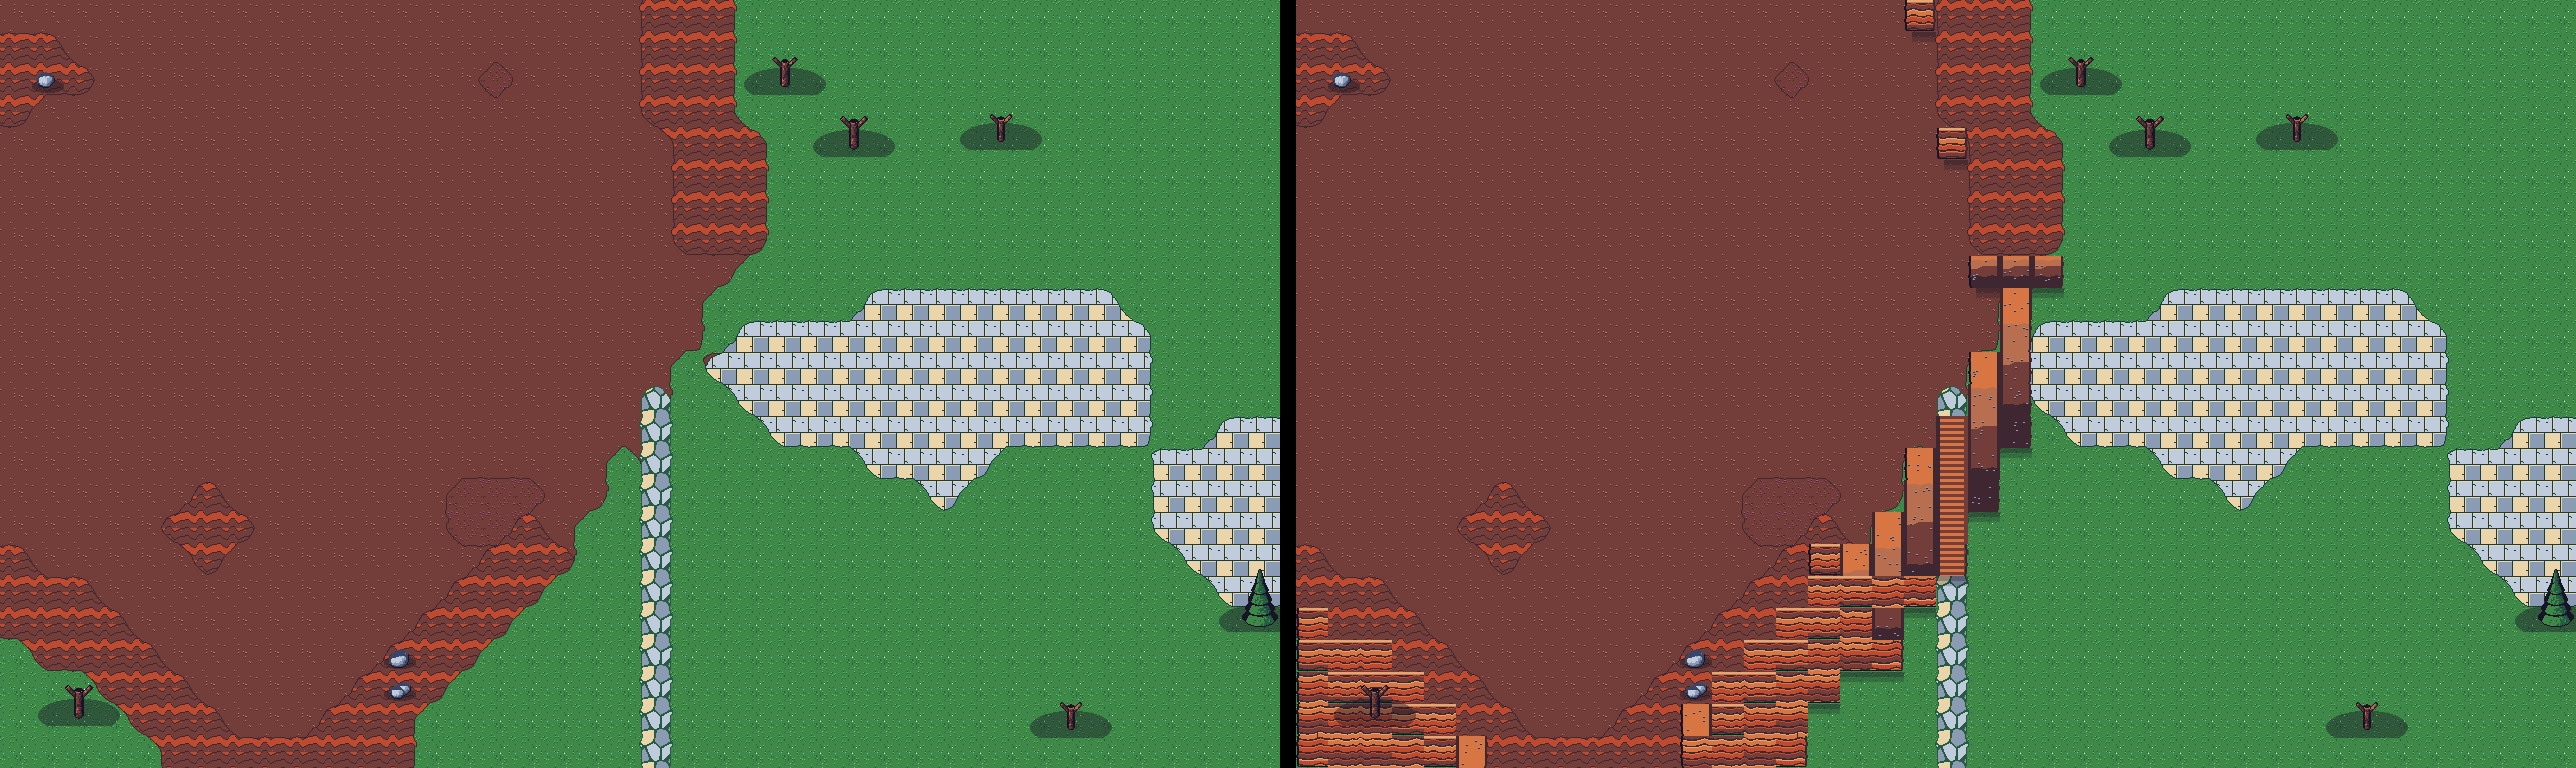
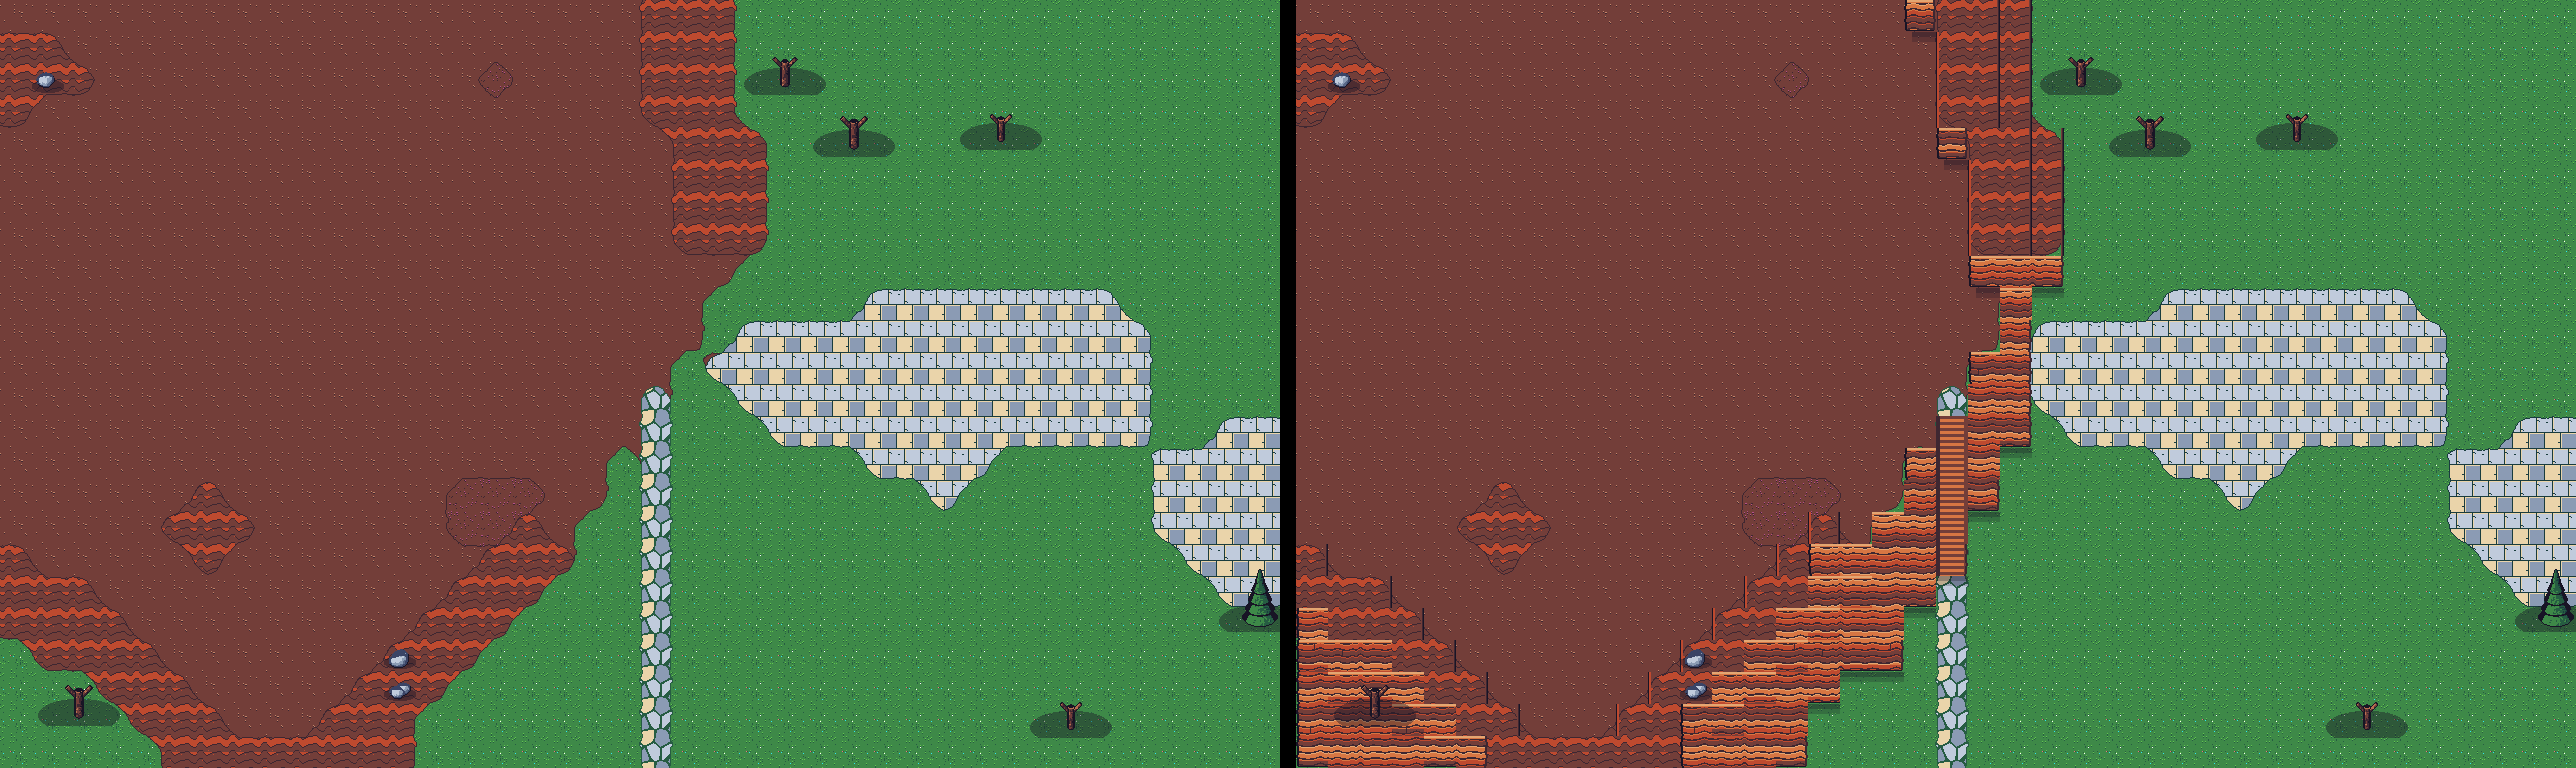
Pareti: gradini in diagonale saldati, orli laterali, cima delle mura, rampe solo su tratti dritti
Claude-Session: https://claude.ai/code/session_014ycMSkFAn8ixUvbSfrqtAR

Changed region(s): [[0.6522, 0.3125, 0.8075, 1.0], [0.4969, 0.7812, 0.5901, 1.0], [0.7143, 0.0, 0.7764, 0.0312]]

diff --git a/tools/art/forge3d/pareti.py b/tools/art/forge3d/pareti.py
@@ -36,8 +36,10 @@ def _campi(mat, S, seed):
     return nz, ids, bordo
 
 
-def _faccia(mat, X, Yf, Hf, S, seed):
-    """Indice di tono (0..n-1) per i pixel della faccia. X: x di mondo, Yf: y dal bordo in alto, Hf: altezza."""
+def _faccia(mat, X, Yf, Hf, S, seed, Yw=None):
+    """Indice di tono (0..n-1) per i pixel della faccia. X: x di mondo, Yf: y dal bordo in alto, Hf: altezza.
+    Yw: y di mondo per il disegno (strati, blocchi): cosi' due pareti una sopra l'altra combaciano."""
+    Yl, Yf = Yf, (Yf if Yw is None else Yw)
     d = MATERIALI[mat]
     n = len(d["ramp"])
     nz, ids, bordo = _campi(mat, S, seed)
@@ -67,20 +69,21 @@ def _faccia(mat, X, Yf, Hf, S, seed):
         manca = ((riga * 13 + col * 7) % 17 == 0)                        # qualche blocco caduto: buco in ombra
         t = np.where(manca, np.where(yr < bh // 2, 0, 1), t)
         t = np.where((xr == 0) | (yr == 0), 0, t)                        # fughe
-    t = t - ((Yf > Hf - S * 0.25) & (t > 1))                             # buio alla base
-    t = np.where(Yf < max(2, S // 21), n - 1, t)                         # orlo in luce
-    t = np.where(Yf == max(2, S // 21), n - 2, t)
+    t = t - ((Yl > Hf - S * 0.25) & (t > 1))                             # buio alla base
+    t = np.where(Yl < max(2, S // 21), n - 1, t)                         # orlo in luce
+    t = np.where(Yl == max(2, S // 21), n - 2, t)
     return np.clip(t, 0, n - 1)
 
 
-def tile(mat, k, d, sx=False, dx=False, passaggio=None, col=0, S=64, seed=5):
+def tile(mat, k, d, sx=False, dx=False, passaggio=None, col=0, S=64, seed=5, base=None, riga=None):
     """Una casella di parete RGBA (S x S): riga k (0 = in alto) di una parete alta d caselle.
     sx/dx: la parete finisce a sinistra/destra. passaggio: None, 'S' (scalini) o 'R' (rampa).
+    base: disegna la base (False se sotto c'e' ancora parete: gradini in diagonale). Default: ultima riga.
     col: colonna di mondo (sceglie la variante: col % 3)."""
     y, x = np.mgrid[0:S, 0:S]
     X, Yf, Hf = col * S + x, k * S + y, d * S
     ramp = MATERIALI[mat]["ramp"]
-    t = _faccia(mat, X, Yf, Hf, S, seed)
+    t = _faccia(mat, X, Yf, Hf, S, seed, None if riga is None else riga * S + y)
     pal = np.array([_rgb(c) for c in ramp])
     img = pal[t]
     alpha = np.full((S, S), 255, np.uint8)
@@ -105,7 +108,7 @@ def tile(mat, k, d, sx=False, dx=False, passaggio=None, col=0, S=64, seed=5):
         dentro = x < S - lato
         img[~dentro] = pal[0]                                  # lato in ombra: luce da sinistra
         alpha[x >= S - lato + 2] = 0
-    if k == d - 1 and passaggio is None:                       # base frastagliata, sassi caduti
+    if (k == d - 1 if base is None else base) and passaggio is None:                       # base frastagliata, sassi caduti
         base = S - 1 - (nz[0:1, :S] * 4).astype(int)
         alpha[y > base] = 0
         img[y == base] = _rgb("ink")
@@ -147,6 +150,41 @@ def _vicino(e, y, x):
     return bool(e[max(0, y - 1):y + 2, x].any())
 
 
+def _orli(alt, mat, e, y, x, S, seed):
+    """Caselle alte che NON sono parete: in vista 3/4 un bordo est o ovest non mostra la faccia, solo la
+    cima. Per non vedere pezzi staccati: orlo di roccia sul lato che confina con il basso, e per le mura
+    un camminamento di pietre chiare (altrimenti la cima del muro si confonde con il selciato)."""
+    H, W = alt.shape
+    h = alt[y, x]
+    m = mat[y][x]
+    if h <= 0 or not m:
+        return None
+    basso = lambda yy, xx: 0 <= yy < H and 0 <= xx < W and alt[yy, xx] < h and not e[yy, xx]
+    sx, dx, su = basso(y, x - 1), basso(y, x + 1), basso(y - 1, x)
+    muro = m == "mura"
+    if not (sx or dx or (muro and su)) and not (muro and (basso(y + 1, x) or e[min(y + 1, H - 1), x])):
+        return None
+    ramp = MATERIALI[m]["ramp"]
+    pal = np.array([_rgb(c) for c in ramp])
+    yy, xx = np.mgrid[0:S, 0:S]
+    out = np.zeros((S, S, 4), np.uint8)
+    if muro:                                                   # camminamento: lastre chiare con fughe
+        t = _faccia(m, x * S + xx, yy + S, 3 * S, S, seed, y * S + yy)
+        out[..., :3] = pal[np.clip(t + 1, 1, len(ramp) - 1)]
+        out[..., 3] = 255
+        if su:
+            out[:2, :, :3] = pal[-1]; out[0, :, :3] = _rgb("ink")
+    w = max(3, S // 10)
+    if sx:                                                     # lato in luce (sinistra)
+        out[:, :w, :3] = pal[2]; out[:, :w, 3] = 255
+        out[:, 0, :3] = _rgb("ink")
+    if dx:                                                     # lato in ombra (destra)
+        out[:, S - w:, :3] = pal[0]; out[:, S - w:, 3] = 255
+        out[:, S - w, :3] = pal[1]
+        out[:, S - 1, :3] = _rgb("ink")
+    return out
+
+
 def disegna(alt, mat, passaggi=None, S=64, seed=5):
     """Strato RGBA (H*S, W*S) con pareti e ombre, da mettere sopra il terreno.
     mat: H x W di nomi di MATERIALI (conta quello della casella in cima al bordo).
@@ -158,6 +196,9 @@ def disegna(alt, mat, passaggi=None, S=64, seed=5):
     for y in range(H):
         for x in range(W):
             if f[y, x] is None:
+                orlo = _orli(alt, mat, e_parete, y, x, S, seed)  # cima delle mura e orli laterali
+                if orlo is not None:
+                    out[y * S:(y + 1) * S, x * S:(x + 1) * S] = orlo
                 if y > 0 and e_parete[y - 1, x]:               # ombra sotto la base
                     sx = x == 0 or not e_parete[y - 1, x - 1]
                     out[y * S:(y + 1) * S, x * S:(x + 1) * S] = tile_ombra(sx, False, S)
@@ -166,7 +207,8 @@ def disegna(alt, mat, passaggi=None, S=64, seed=5):
             sx = not _vicino(e_parete, y, x - 1)               # libero a sinistra (anche in diagonale)
             dx = not _vicino(e_parete, y, x + 1)
             p = passaggi[y][x] if passaggi is not None and passaggi[y][x] in "SR" else None
-            out[y * S:(y + 1) * S, x * S:(x + 1) * S] = tile(mat[yb][x], k, d, sx, dx, p, x, S, seed)
+            base = k == d - 1 and not (y + 1 < H and e_parete[y + 1, x])   # sotto c'e' terreno, non altra parete
+            out[y * S:(y + 1) * S, x * S:(x + 1) * S] = tile(mat[yb][x], k, d, sx, dx, p, x, S, seed, base, y)
     return out
 
 

diff --git a/tools/art/build_world.py b/tools/art/build_world.py
@@ -618,8 +618,13 @@ def genera(seed):
     # passaggi: scala dove una strada attraversa una parete, rampa ogni ~15 caselle, rampa davanti al passo
     faccia = maschera_pareti(altezza)
     pas = np.full((H, W), ".", "<U1")
-    pas[faccia & ((xx + yy * 7) % 15 == 0)] = "R"
-    pas[faccia & disco(*passo, 6)] = "R"
+    # rampa: nasce in cima a un tratto di parete dritto (pareti a sinistra e a destra) e scende per tutta l'altezza
+    cima = faccia & ~sposta(faccia, 1, 0)
+    dritto = sposta(faccia, 0, 1) & sposta(faccia, 0, -1)
+    rampa = cima & dritto & ((xx + yy * 7) % 15 == 0) & ~disco(*passo, 8)
+    for _ in range(8):
+        rampa |= sposta(rampa, 1, 0) & faccia
+    pas[rampa] = "R"
     for p in strade:
         for x, y in p:
             if faccia[y, x]:
